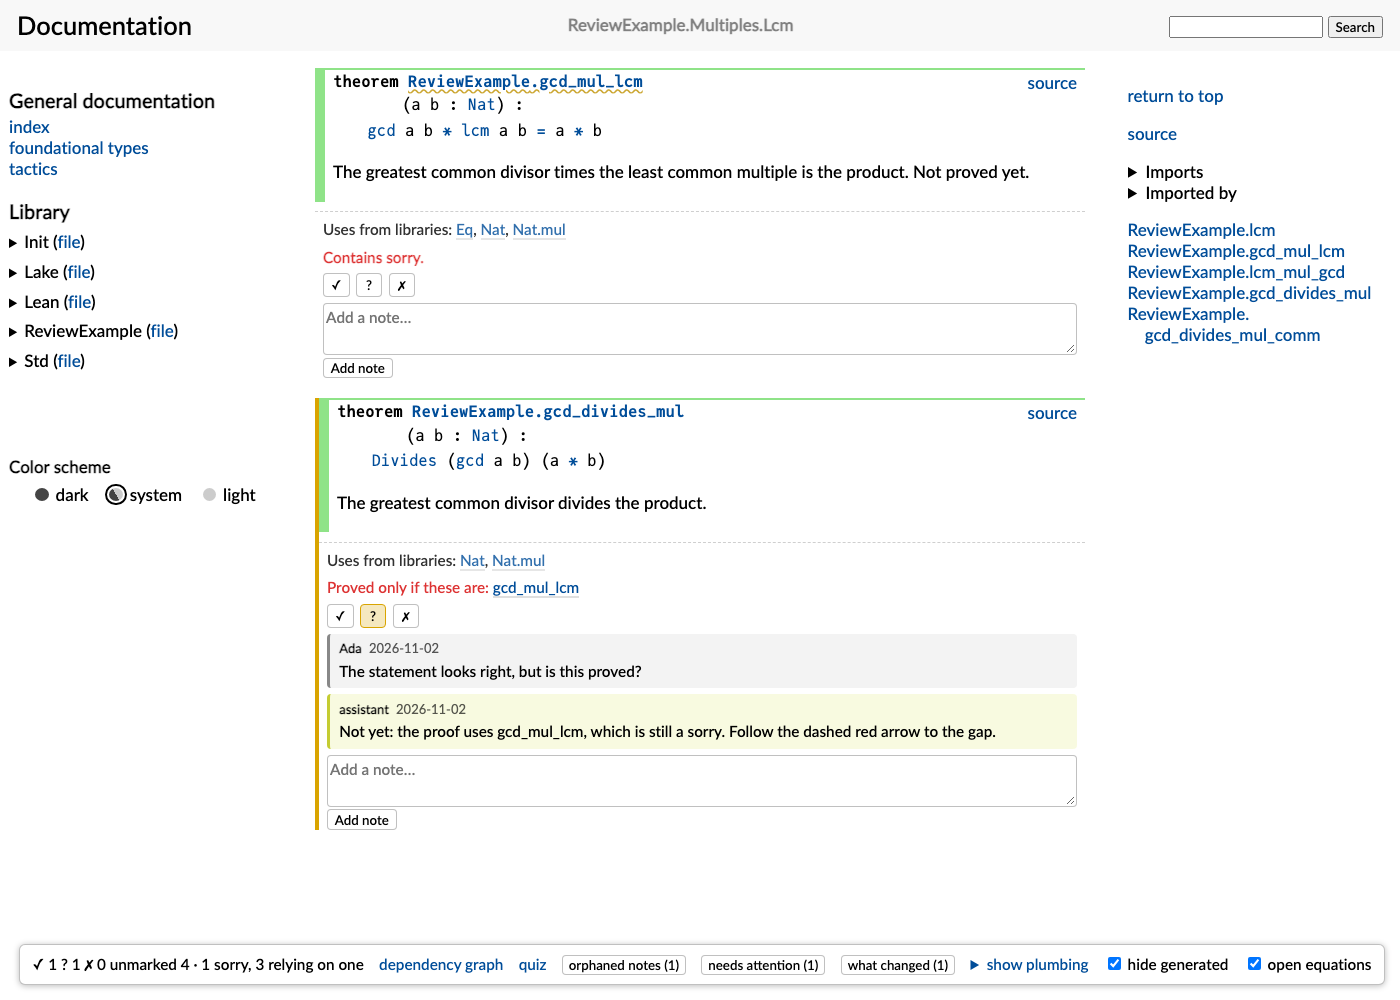
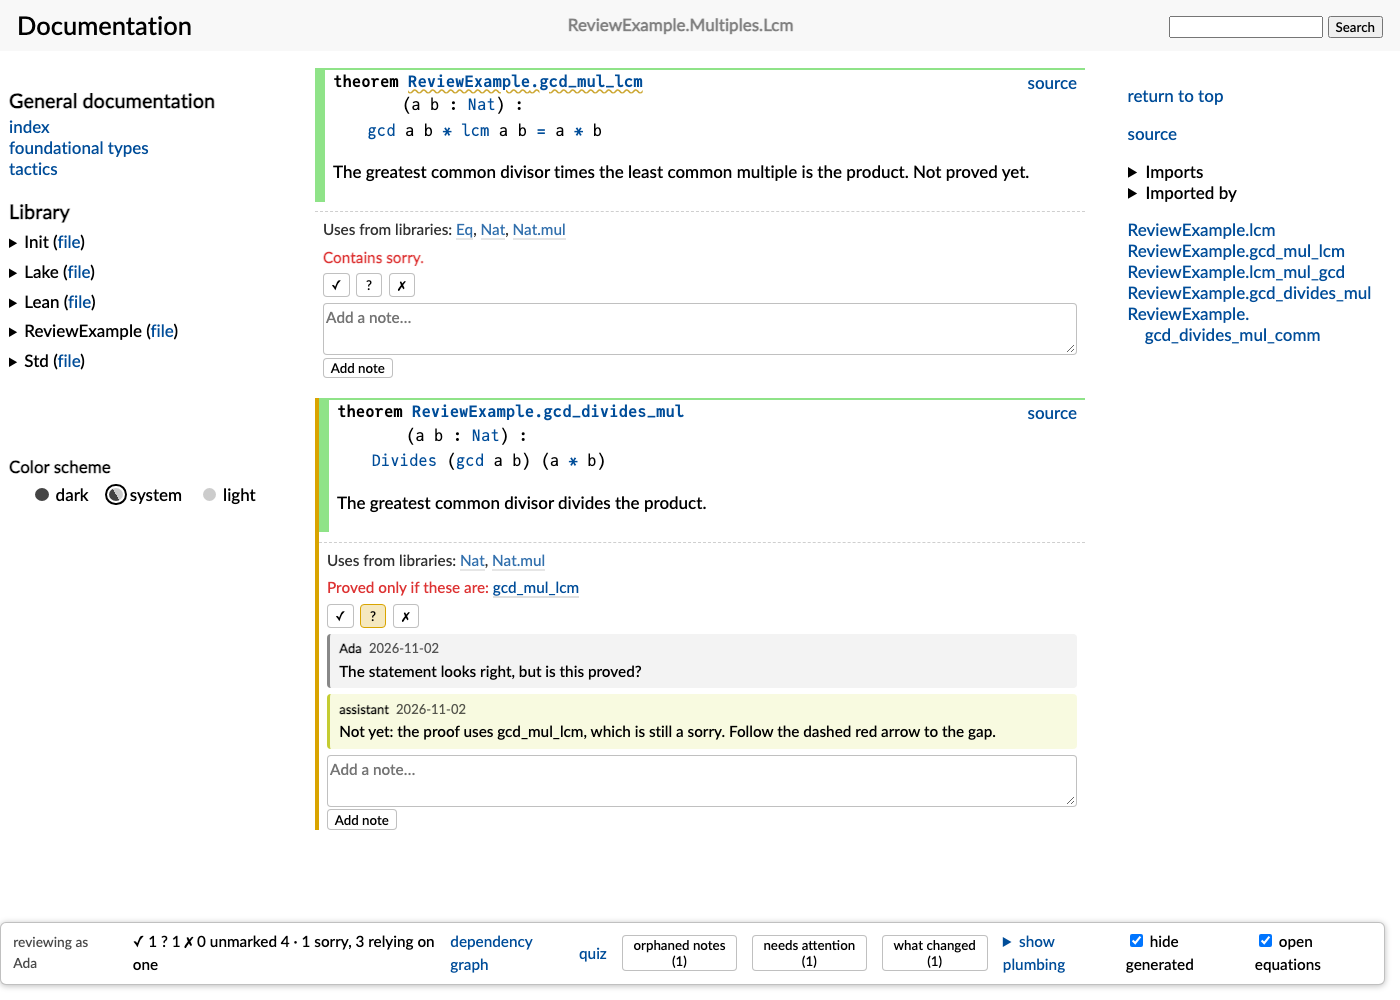
Accept a change with one click; say who disagrees and who's reviewing
Accept change keeps a flagged mark for the current version, one declaration at a time: clicking an active mark clears it, so there was no direct way. Marks changing now redraw the whole page, since other declarations count what relies on what.

Disagreements name who, and pages show the name you're reviewing as. The docs give the cost of running on all of Mathlib.

Changed region(s): [[0.0614, 0.93, 0.9829, 0.992], [0.0, 0.93, 0.0614, 0.992]]

diff --git a/lean_review/web/graph.html b/lean_review/web/graph.html
@@ -17,6 +17,7 @@
   .controls { display: flex; gap: 0.6em 1.5em; align-items: center; flex-wrap: wrap; margin-bottom: 0.8em; }
   .legend span { display: inline-block; margin-right: 1em; }
   .legend span[hidden] { display: none; }
+  .review-me { color: #666; font-size: 0.9em; margin-left: 1.2em; }
   .swatch { display: inline-block; width: 0.9em; height: 0.9em; border-radius: 2px; vertical-align: middle;
     margin-right: 0.3em; border: 1px solid #888; }
   .note { color: #555; max-width: 60em; margin: 0 0 0.6em; }
@@ -60,6 +61,7 @@
   #sidebar .ref[data-status="question"] { border-color: #cc9900; }
   #sidebar .ref[data-status="reject"] { border-color: #cc3333; }
   #sidebar .marks button { width: 2em; height: 1.8em; border: 1px solid #bbb; border-radius: 4px; background: #fff; cursor: pointer; }
+  #sidebar .marks button.accept { width: auto; padding: 0 0.5em; }
   #sidebar .marks button[data-status="agree"].active { background: #c8ecc8; border-color: #33aa33; }
   #sidebar .marks button[data-status="question"].active { background: #fbe9b0; border-color: #cc9900; }
   #sidebar .marks button[data-status="reject"].active { background: #f6c4c4; border-color: #cc3333; }
@@ -109,7 +111,7 @@
 </head>
 <body>
 <header class="views"><h1 id="project">Dependency graph</h1>
-  <nav><a id="docs-link" href="/">docs</a><a href="/review/quiz">quiz</a></nav></header>
+  <nav><a id="docs-link" href="/">docs</a><a href="/review/quiz">quiz</a><span class="review-me"></span></nav></header>
 <details class="note"><summary>How to read this diagram</summary><p>Each arrow points from a declaration to one it depends on, with the arrows implied
 by others left out (a Hasse diagram). For a theorem, only its statement counts; for a definition,
 its statement and body. Colors are your marks; a solid orange border means it changed since a mark that relies on it, a
@@ -789,10 +791,17 @@ step by step. Shift-click a <code>sorry</code> to see all it reaches.</p></detai
   };
 
   // Update one node's colors after its mark changes, without redrawing (which would reset zoom).
-  function recolor(name) {
+  function recolorAll() {
+    const elements = nodeElements();
+    for (const name of model.id.keys()) repaint(name, elements);
     renderTree();
+    drawBadges();
+    showChanged();
+  }
+  const recolor = recolorAll;
+  function repaint(name, elements) {
     const id = model.id.get(name);
-    const g = id && nodeElements().get(id);
+    const g = id && elements.get(id);
     if (!g) return;
     const [fill, stroke] = COLORS[nodeClass(name)], change = changeOf(name), b = border(change, gapOf(name), stroke);
     for (const shape of g.querySelectorAll("path, polygon, rect")) {
@@ -805,8 +814,6 @@ step by step. Shift-click a <code>sorry</code> to see all it reaches.</p></detai
     }
     const node = model.nodes.find(n => n.id === id);
     if (node) Object.assign(node, { cls: nodeClass(name), stale: change });
-    drawBadges();
-    showChanged();
   }
 
   function select(name) {
@@ -878,14 +885,26 @@ step by step. Shift-click a <code>sorry</code> to see all it reaches.</p></detai
       s.append(", which changed since you marked it");
       markRow.append(s);
     }
+    if (c.self || c.deps.length) {
+      // Keeps the mark, for what's there now. Clicking it again would clear it.
+      const accept = el("button", "accept", "Accept change");
+      accept.title = "Keep your mark for the current version. Only this declaration's mark is affected.";
+      accept.onclick = async () => {
+        marks[name] = await post("/review/data", { name, status: marks[name].status, fingerprint: fingerprint(name) });
+        recolorAll();
+        renderSidebar(name);
+      };
+      markRow.append(" ", accept);
+    }
     sidebar.append(el("h3", null, "Review"), markRow);
     const others = marks[name]?.others ?? [];
     if (others.length) {
       const line = el("p", "others");
       for (const o of others) line.append(el("span", isOld(name, o) ? "old" : null,
         `${o.name}: ${SYMBOL[o.status]}${isOld(name, o) ? " (changed since)" : ""}`));
-      if (new Set(everyMark(name).filter(m => !isOld(name, m)).map(m => m.status)).size > 1)
-        line.append(el("span", "disagree", "disagreement"));
+      const mine = marks[name]?.status && !isOld(name, marks[name]) ? marks[name].status : null;
+      const differing = reviewDisagreement(mine, others.filter(o => !isOld(name, o)));
+      if (differing) line.append(el("span", "disagree", differing));
       sidebar.append(line);
     }
     if (asked(name)) {
@@ -1137,7 +1156,7 @@ step by step. Shift-click a <code>sorry</code> to see all it reaches.</p></detai
       if (!people.has(id)) { people.set(id, name); viewer.add(new Option(name, id), viewer.options[viewer.options.length - 1]); }
     }
     document.getElementById("viewer-label").hidden = !people.size;
-    changed.forEach(recolor);
+    recolorAll();
     showAskedKey();
     // Redraw the sidebar's thread, unless that would lose a note being written.
     const input = sidebar.querySelector("textarea");

diff --git a/lean_review/web/review.js b/lean_review/web/review.js
@@ -132,6 +132,12 @@
   };
 
   const renderers = new Map();   // how to redraw each declaration on this page
+  // A change to one mark can change what others show, since they count what relies on what.
+  const redraw = () => {
+    for (const [name, render] of renderers) render(marks[name] ?? {});
+    showBar();
+  };
+  let showBar = () => {};
 
   // What changed, and how many of your marks rely on each. Every mark recorded what lay below it,
   // so this includes declarations you never marked.
@@ -222,6 +228,13 @@
         c.deps.forEach((d, i) => { if (i) stale.append(", "); stale.append(link(d, short(d))); });
         stale.append(", which changed since you marked it");
       }
+      if (c.self || c.deps.length) {
+        // Keeps the mark, for what's there now. Clicking it again would clear it.
+        const accept = el("button", "review-accept", "Accept change");
+        accept.title = "Keep your mark for the current version. Only this declaration's mark is affected.";
+        accept.onclick = async () => { await post("/review/data", { name, status: e.status, fingerprint: fingerprint(name) }).then(render); redraw(); };
+        stale.append(" ", accept);
+      }
       element.dataset.reviewStale = c.self || c.deps.length ? "yes" : "";
       element.dataset.reviewChange = c.self || relying ? "changed" : c.deps.length ? "affected" : "";
       // Only marks of what's there now can disagree.
@@ -233,7 +246,8 @@
       element.dataset.reviewAttention = e.attention?.length ? "yes" : "";
       others.replaceChildren(...(e.others ?? []).map(o =>
         el("span", isCurrent(o) ? null : "old", `${o.name}: ${SYMBOL[o.status]}${isCurrent(o) ? "" : " (changed since)"}`)));
-      if (disagree) others.append(el("span", "disagree", "disagreement"));
+      const differing = reviewDisagreement(e.status && isCurrent(e) ? e.status : null, (e.others ?? []).filter(isCurrent));
+      if (differing) others.append(el("span", "disagree", differing));
       if (e.attention?.length) others.append(el("span", "attention", `needs your attention: ${e.attention.join(", ")}`));
       notes.replaceChildren(...(e.notes ?? []).map(noteItem));
       summarize();
@@ -358,7 +372,7 @@
     await reviewLinks.rewrite(document, a => graph.declarations[a.closest(".decl")?.id]?.lines?.[0]);
     const bar = el("div");
     bar.id = "review-summary";
-    bar.append(el("span", "counts"));
+    bar.append(el("span", "review-me"), el("span", "counts"));
     // So the graph and quiz pages can link back here.
     try { sessionStorage.setItem("lean-review-docs", location.href); } catch {}
     const graphLink = el("a", null, "dependency graph");
@@ -392,6 +406,7 @@
       changedButton.textContent = `what changed (${found})`;
       changedButton.style.display = found ? "" : "none";
     };
+    showBar = () => { showAsked(); showChanged(); summarize(); };
     showChanged();
     bar.append(changedButton);
     if (location.hash === "#review-attention" && needingAttention().length) attentionPanel();
@@ -449,12 +464,8 @@
     summarize();
     reviewWatch(async () => {
       const fresh = await fetch("/review/data").then(checked);
-      for (const [name, render] of renderers)
-        if (JSON.stringify(marks[name]) !== JSON.stringify(fresh[name])) render(fresh[name] ?? {});
       marks = fresh;
-      showAsked();
-      showChanged();
-      summarize();
+      redraw();
     });
     // ?focus=A,B scrolls to those declarations once the review controls are in place; adding
     // &only hides the page's other declarations instead (used for screenshots).

diff --git a/lean_review/web/links.js b/lean_review/web/links.js
@@ -5,6 +5,13 @@
 //
 // With DOCGEN_SRC=file the source links are file:// URLs, which browsers won't follow from a web
 // page. They open in VS Code instead, at the line `lineOf(a)` gives, if any.
+// Who disagrees with whom, among marks that are current: `mine` is your status, if any.
+window.reviewDisagreement = (mine, others) => {
+  const differ = others.filter(o => o.status !== mine);
+  if (mine && differ.length) return `${differ.map(o => o.name).join(", ")} ${differ.length === 1 ? "disagrees" : "disagree"} with you`;
+  return new Set(others.map(o => o.status)).size > 1 ? "others disagree" : null;
+};
+
 // A person's color in note threads, the same wherever their name appears.
 window.reviewHue = name => [...name].reduce((hue, c) => (hue * 31 + c.codePointAt(0)) % 360, 7);
 
@@ -30,6 +37,10 @@ window.reviewWatch = onMarks => {
   const tick = async () => {
     const now = await fetch("/review/status").then(r => r.json()).catch(() => null);
     if (!now) return;
+    for (const me of document.querySelectorAll(".review-me")) {
+      me.textContent = `reviewing as ${now.me.name}`;
+      me.title = `Your id is ${now.me.id}: the name of your marks file. --name and --id change them.`;
+    }
     if (first) built = now.built;
     else if (now.marks !== marks) await onMarks();
     first = false;

diff --git a/lean_review/web/quiz.html b/lean_review/web/quiz.html
@@ -58,7 +58,7 @@
 </head>
 <body>
 <header class="views"><h1 id="project">Quiz</h1>
-  <nav><a id="docs-link" href="/">docs</a><a href="/review/diagram">dependency graph</a></nav></header>
+  <nav><a id="docs-link" href="/">docs</a><a href="/review/diagram">dependency graph</a><span class="review-me" style="color: #666; font-size: 0.9em; margin-left: 1.2em"></span></nav></header>
 <p class="note">Read a statement, write what you think it says, then compare with its real name and
 docstring. A mismatch means you misread it or the name or docstring is wrong. Your answer is saved for you alone. Names you have marked ✓ or ? can be looked up while you answer.
 <span class="key">Cmd-Enter saves or moves on; 1, 2, 3 say how it compared.</span></p>

diff --git a/lean_review/web/review.css b/lean_review/web/review.css
@@ -17,8 +17,10 @@
 .review-row button[data-status="question"].active { background: #d9a40040; border-color: #d9a400; }
 .review-row button[data-status="reject"].active { background: #d4444040; border-color: #d44; }
 .review-stale { color: #e08a10; font-style: italic; }
+.review-accept { font-style: normal; font-size: 0.9em; margin-left: 0.3em; white-space: nowrap; }
 .review-prompt { color: #b08800; font-size: 0.9em; margin: 0.2em 0; }
 .review-others { font-size: 0.9em; margin: 0.3em 0; }
+.review-me { opacity: 0.7; font-size: 0.9em; margin-right: 0.8em; }
 .review-others span { margin-right: 0.8em; }
 .review-others .old { opacity: 0.6; }
 .review-others .disagree { color: #7b4fb5; font-weight: 600; }

diff --git a/tests/test_pages.py b/tests/test_pages.py
@@ -318,6 +318,47 @@ class PagesTest(unittest.TestCase):
         """, frame="review/diagram", graph=graph)
         self.assertEqual(results, ["what changed (1)"])
 
+    def test_accepting_a_change_on_a_docs_page_keeps_the_mark_and_only_that_one(self):
+        marks, graph = self.changed_below()
+        below = "ReviewExample.gcd_divides_mul"
+        marks[below] = {"status": "question", "notes": [], "date": "2026-01-01T00:00:00", "fingerprint": fingerprint(self.graph, below)}
+        results = self.click_through(marks, """
+            await ready(".decl[data-review-change=affected]");
+            const decl = doc.getElementById("ReviewExample.gcd_divides");
+            decl.querySelector(".review-accept").click();
+            await until(() => decl.dataset.reviewChange === "");
+            results.push(decl.dataset.reviewStatus, decl.dataset.reviewStale, !!decl.querySelector(".review-accept"));
+            results.push(doc.getElementById("ReviewExample.gcd").dataset.reviewChange);
+            results.push([...doc.querySelectorAll("#review-summary button")].find(b => b.textContent.startsWith("what changed")).textContent);
+        """, graph=graph)
+        self.assertEqual(results, ["agree", "", False, "changed", "what changed (1)"])
+
+    def test_accepting_the_last_mark_clears_what_changed(self):
+        marks, graph = self.changed_below()
+        results = self.click_through(marks, """
+            await ready(".decl[data-review-change=affected]");
+            const decl = doc.getElementById("ReviewExample.gcd_divides");
+            decl.querySelector(".review-accept").click();
+            await until(() => doc.getElementById("ReviewExample.gcd").dataset.reviewChange === "");
+            results.push(doc.getElementById("ReviewExample.gcd").dataset.reviewChange, doc.getElementById("ReviewExample.gcd").querySelector(".review-stale").textContent);
+            results.push([...doc.querySelectorAll("#review-summary button")].find(b => b.textContent.startsWith("what changed")).style.display);
+        """, graph=graph)
+        self.assertEqual(results, ["", "", "none"])
+
+    def test_accepting_a_change_in_the_diagram_keeps_the_mark(self):
+        marks, graph = self.changed_below()
+        results = self.click_through(marks, """
+            await ready("#sidebar .marks button.accept");
+            results.push(doc.querySelector("#sidebar .marks button.active").dataset.status);
+            doc.querySelector("#sidebar .marks button.accept").click();
+            await until(() => doc.getElementById("what-changed").hidden);
+            await until(() => !doc.querySelector("#sidebar .stale"));
+            results.push(doc.querySelector("#sidebar .marks button.active").dataset.status, !!doc.querySelector("#sidebar .marks button.accept"), doc.getElementById("what-changed").hidden);
+            const lit = [...doc.querySelectorAll("#diagram g.node")].filter(g => g.querySelector("path, polygon").getAttribute("stroke") === "#f0a020");
+            results.push(lit.length);
+        """, frame="review/diagram#ReviewExample.gcd_divides", graph=graph)
+        self.assertEqual(results, ["agree", "agree", False, True, 0])
+
     def test_what_changed_lists_the_lowest_first(self):
         marks, graph = self.changed_below()
         graph["declarations"]["ReviewExample.Divides"]["own"] = "1111111111111111"
@@ -377,6 +418,28 @@ class PagesTest(unittest.TestCase):
             results.push([...doc.getElementById("viewer").options].map(o => o.text));
         """, frame=f"review/diagram#{GCD}")
         self.assertEqual(results, [True, 0, False, 1, ["mine", "Claude", "everyone"]])
+
+    def test_pages_say_who_is_reviewing(self):
+        results = self.click_through({}, """
+            await ready(".review-me:not(:empty)");
+            results.push(doc.querySelector(".review-me").textContent, doc.querySelector(".review-me").title.includes("ada"));
+        """, frame="review/diagram")
+        self.assertEqual(results, ["reviewing as Ada", True])
+        results = self.click_through({}, """
+            await ready(".review-me:not(:empty)");
+            results.push(doc.querySelector(".review-me").textContent);
+        """)
+        self.assertEqual(results, ["reviewing as Ada"])
+
+    def test_a_disagreement_says_who_with(self):
+        bo = {GCD: {"status": "reject", "date": "2026-01-01T00:00:00", "notes": [], "fingerprint": fingerprint(self.graph, GCD)}}
+        cy = {GCD: {"status": "question", "date": "2026-01-01T00:00:00", "notes": [], "fingerprint": fingerprint(self.graph, GCD)}}
+        script = """
+            await ready(".decl[data-review-disagree=yes]");
+            results.push(doc.getElementById("ReviewExample.gcd").querySelector(".disagree").textContent);
+        """
+        self.assertEqual(self.click_through(self.marked(), script, people={"bo": ("Bo", bo)}), ["Bo disagrees with you"])
+        self.assertEqual(self.click_through({}, script, people={"bo": ("Bo", bo), "cy": ("Cy", cy)}), ["others disagree"])
 
     def test_a_running_build_is_announced(self):
         results = self.click_through({}, """

diff --git a/lean_review/server.py b/lean_review/server.py
@@ -312,14 +312,15 @@ def alive(pid):
 def status():
     """What open pages poll: when anyone's marks last changed, and how the latest build went, which
     a build reports in a file. A build that died can't say so itself. `marks_folder` tells
-    lean-review which project this server is for."""
+    lean-review which project this server is for, and `me` shows who's reviewing."""
     files = [path for folder in (args.marks, args.quiz) for path in sorted(folder.glob("*.json"))]
     build = load_json(args.build, {})
     state, message = build.get("state"), build.get("message")
     if state == "building" and not alive(build.get("pid")):
         state, message = "failed", "The build stopped before it finished."
     return {"marks": ",".join(f"{path.stem}:{path.stat().st_mtime_ns}" for path in files), "state": state,
-            "message": message, "built": build.get("built"), "marks_folder": str(args.marks.resolve())}
+            "message": message, "built": build.get("built"), "marks_folder": str(args.marks.resolve()),
+            "me": {"id": args.id, "name": person(args.id, args.name)["name"]}}
 
 
 def well_formed(body):

diff --git a/tests/test_server.py b/tests/test_server.py
@@ -118,8 +118,9 @@ class ServerTest(unittest.TestCase):
         server.args.build.write_text(json.dumps({"state": "building", "pid": dead.pid}))
         self.assertEqual(self.status()["state"], "failed")
 
-    def test_status_names_the_marks_folder(self):
+    def test_status_names_the_marks_folder_and_who_this_is(self):
         self.assertEqual(self.status()["marks_folder"], str(self.folder_marks.resolve()))
+        self.assertEqual(self.status()["me"], {"id": "ada", "name": "Ada"})
 
     def test_source_edited_since_the_build_says_so(self):
         (self.root / "src").mkdir()

diff --git a/docs/features.md b/docs/features.md
@@ -8,8 +8,9 @@ Under every declaration:
   when anything it depends on has ("depends on `Divides`, which changed since you marked it"), however
   far below. In the diagram a solid orange border is what changed and a dashed one what relies on it, and
   selecting one lights the way down to the change. "What changed" lists every change, lowest first, with
-  how many marks rely on it. Each mark stays flagged until you've looked at it: accepting a change below
-  doesn't accept what's built on it.
+  how many marks rely on it. Each mark stays flagged until you've looked at it, and **Accept change**
+  keeps it for the current version. That covers one mark: accepting a change below doesn't accept
+  what's built on it.
   For a theorem only its statement counts, since Lean checks the proof; for a definition, its
   statement and body. A change only to how an argument is passed, such as `(n : Nat)` to
   `{n : Nat}`, isn't flagged: it changes how the declaration is called, not what it says.

diff --git a/docs/usage.md b/docs/usage.md
@@ -25,6 +25,7 @@ The first docs build takes time, because doc-gen4 documents everything the proje
 | --- | --- | --- |
 | No dependencies | about 7 minutes, mostly compiling doc-gen4 | about 1 GB |
 | Using Mathlib | about 35 minutes | 2 GB |
+| All of Mathlib | about 2 hours | 4 GB, and about 4 GB of memory |
 
 It doesn't recompile Mathlib. The graph step needs about 4 GB of memory for a Mathlib project. Lake's `[n/m]` total grows as it finds more to build, so the progress can seem to go backwards.
 
